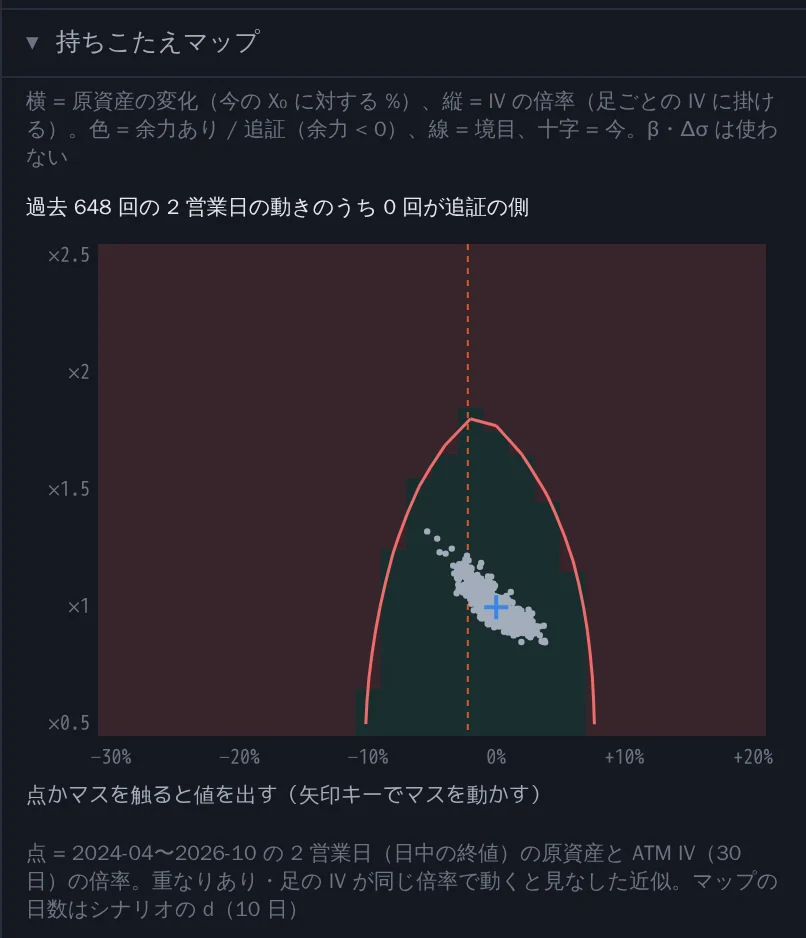
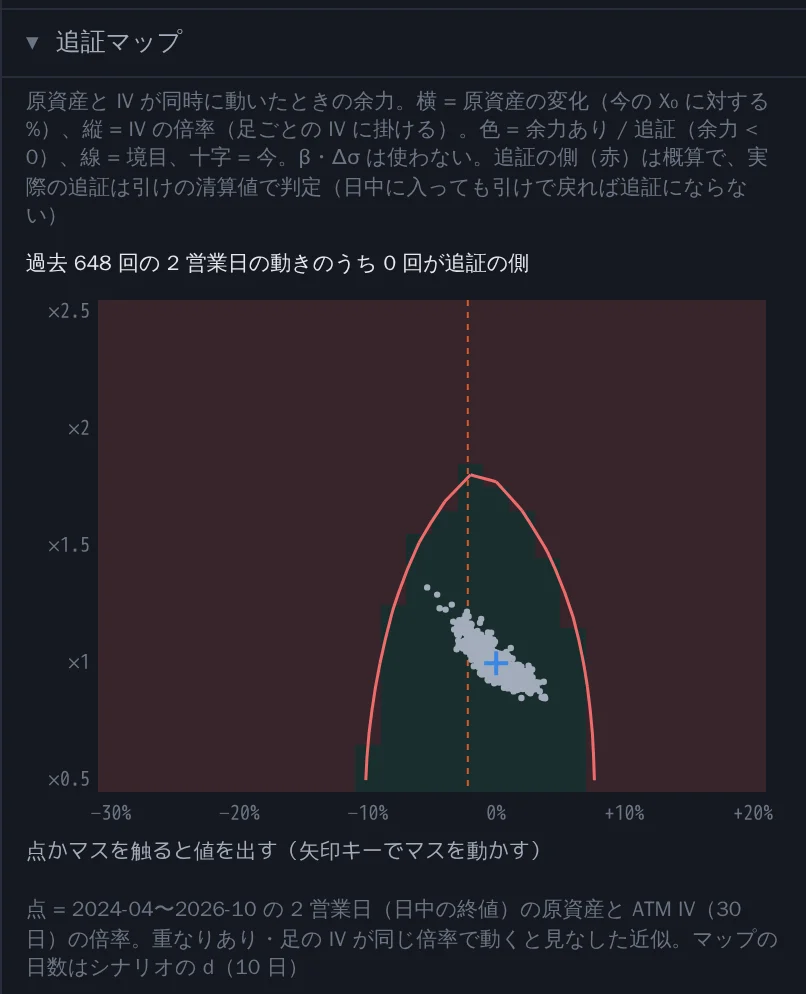
feat: 「持ちこたえマップ」を「追証マップ」に改名し、赤は概算・判定は引けの清算値と添える (#179)

diff --git a/ui/view/glossary.ts b/ui/view/glossary.ts
@@ -66,8 +66,8 @@ const G_LINES = { anchor: '線と印', title: '4 章 舞台（損益グラフ）
 const G_BREAKDOWN = { anchor: '内訳', title: '8 章 作業台: 指標 · テール > 内訳' };
 const G_MARGIN = { anchor: '証拠金概算', title: '8 章 作業台: 指標 · テール > 証拠金（概算）' };
 const G_HOLD = {
-  anchor: '持ちこたえマップ',
-  title: '8 章 作業台: 指標 · テール > 持ちこたえマップ',
+  anchor: '追証マップ',
+  title: '8 章 作業台: 指標 · テール > 追証マップ',
 };
 const G_IV_HISTORY = {
   anchor: 'iv-推移atm-iv-の-30-日固定',
@@ -166,7 +166,7 @@ export const GLOSSARY: readonly GlossaryTerm[] = [
       'シナリオのステッパー「原資産 ΔX」',
       '舞台のハンドル（シナリオ点）と X₀ の縦線',
       '読み取り・指標の X',
-      '持ちこたえマップの横軸',
+      '追証マップの横軸',
     ],
     guide: G_AXIS,
     related: ['forward', 'basis', 'beta'],
@@ -199,12 +199,12 @@ export const GLOSSARY: readonly GlossaryTerm[] = [
     body: [
       'optionchan が板から 1 回ごとに計算して保存している、残存 30 日にそろえた ATM の IV。期近・次限月の ATM の IV を総分散で 30 日に補間する（SQ の前 3 日は次限月を使う）。限月の乗り換え・ATM の移動による段差が無い。',
       'スマイルの ATM IV・足のアンカー IV（simulator のモデルの IV）とは計算の仕方が別で、近いことが多いが一致しない。',
-      '今の IV が過去に比べて高いか低いかを見るのに使う。持ちこたえマップの過去の点（2 営業日の IV の倍率）もこの値から作る。',
+      '今の IV が過去に比べて高いか低いかを見るのに使う。追証マップの過去の点（2 営業日の IV の倍率）もこの値から作る。',
     ],
     formula: '総分散 w = σ² × T を期近・次限月の間で T = 30 日に線形補間し、iv30 = √(w / T)',
     example:
       '例（架空の値）: 期近（残り 20 日）の ATM IV 22%・次限月（残り 48 日）の 20% なら iv30 は約 20.9%',
-    where: ['IV 推移のチャート（「今」の点・シナリオの水準）', '持ちこたえマップの過去の点'],
+    where: ['IV 推移のチャート（「今」の点・シナリオの水準）', '追証マップの過去の点'],
     guide: G_IV_HISTORY,
     related: ['iv', 'hv', 'hold-map'],
   },
@@ -494,7 +494,7 @@ export const GLOSSARY: readonly GlossaryTerm[] = [
     body: [
       '損益グラフの赤の破線と札「追証」。指定日 + シナリオで原資産だけを動かしたとき、余力（概算）が 0 になる原資産の水準。',
       '資金を設定したときだけ出る。余力がどこでも正なら出ない。ΔX・パン・拡大では動かず、d・Δσ・Δs・β などを動かしている間は消え、止まると出る。',
-      '原資産だけを動かす線なので、急落と IV の急騰が同時に来る場面は持ちこたえマップで見る。',
+      '原資産だけを動かす線なので、急落と IV の急騰が同時に来る場面は追証マップで見る。',
     ],
     formula: '余力(X) = 0 となる X',
     example:
@@ -505,19 +505,21 @@ export const GLOSSARY: readonly GlossaryTerm[] = [
   },
   {
     id: 'hold-map',
-    title: '持ちこたえマップ',
-    short: '持ちこたえ',
-    reading: 'もちこたえまっぷ',
-    aliases: ['ホールドマップ', 'hold map'],
-    summary: '原資産の変化 × IV の倍率で、余力が残るか追証かを塗り分けた図',
+    title: '追証マップ',
+    short: '追証マップ',
+    reading: 'おいしょうまっぷ',
+    // 旧名（#179 で改名）も検索で引けるよう別名に残す
+    aliases: ['持ちこたえマップ', 'ホールドマップ', 'hold map'],
+    summary: '原資産と IV が同時に動いたときの余力を、余力あり / 追証の 2 色で塗り分けた図',
     body: [
       '指標 · テールの末尾の折りたたみ。横 = 原資産の変化（−30%〜+20%）、縦 = IV の倍率（×0.5〜×2.5）で、各マスの余力が正か負（追証）かを 2 色で塗る。',
       '過去の点は、取り込まれた全期間の 2 営業日の動き（原資産の変化と iv30 の倍率）。追証の側に入った回数が上に出る。',
       '日数・スキュー・IV の動き方はシナリオのまま。ΔX・Δσ・β は効かない（縦軸が IV の変化そのもの）。',
+      '追証の側（赤）は simulator の証拠金の概算で余力が負になるところ。実際の追証の判定は引けの清算値で行われるので、日中に追証の側へ入っても引けで戻れば追証にならない。',
     ],
     example:
       '例（架空の値）: 原資産 −6%・IV ×1.6 のマスが追証の色なら、2 日でそれだけ動くと余力が負になる',
-    where: ['指標 · テールの「持ちこたえマップ」'],
+    where: ['指標 · テールの「追証マップ」'],
     guide: G_HOLD,
     related: ['margin-line', 'room', 'iv30'],
   },

diff --git a/ui/view/holdMap.ts b/ui/view/holdMap.ts
@@ -1,5 +1,5 @@
 /**
- * 持ちこたえマップ（#152。設計 docs/design.md 5.11）の画面側の計算の単位と表示モデル（純関数。Preact・DOM に依存しない）。
+ * 追証マップ（#152。設計 docs/design.md 5.11）の画面側の計算の単位と表示モデル（純関数。Preact・DOM に依存しない）。
  *
  * - 入力（holdMapInput）は 板の基礎（pnlBoard）・今のシナリオの d・Δs・IV の動き方・パラメータ・資金・休業日だけ
  *   （ΔX・Δσ・β・ivShift・パン・拡大では変わらない = 作り直さない。B7）
@@ -33,7 +33,7 @@ import { MARGIN_LINE_SETTLE_MS } from './margin';
 import { AMOUNT_UNIT_LABEL, type AmountUnit, fmtAmount } from './metrics';
 import { clampDays, type PnlBase } from './pnlChart';
 
-export const HOLD_MAP_TITLE = '持ちこたえマップ';
+export const HOLD_MAP_TITLE = '追証マップ';
 export const HOLD_MAP_NO_CAPITAL = '設定で資金を入れてください（⋯ > 設定…）';
 export const HOLD_MAP_NO_LEGS = '足を入れるとマップを作る';
 export const HOLD_MAP_COMPUTING = '計算中…';
@@ -42,9 +42,10 @@ export const HOLD_MAP_FAILED = '過去の値動きを読めない';
 export const HOLD_MAP_EMPTY = '過去の値動きが無い';
 export const HOLD_MAP_RETRY = '再試行';
 export const HOLD_MAP_IDLE_READOUT = '点かマスを触ると値を出す（矢印キーでマスを動かす）';
+/** 見出しの下の説明（#179: 何の図か・追証の側は概算で実際の判定は引けの清算値。過去の点の近似は holdMapNote） */
 export const HOLD_MAP_CAPTION =
-  '横 = 原資産の変化（今の X₀ に対する %）、縦 = IV の倍率（足ごとの IV に掛ける）。色 = 余力あり / 追証（余力 < 0）、線 = 境目、十字 = 今。β・Δσ は使わない';
-export const HOLD_MAP_PLOT_LABEL = '持ちこたえマップ（原資産の変化 × IV の倍率の余力）';
+  '原資産と IV が同時に動いたときの余力。横 = 原資産の変化（今の X₀ に対する %）、縦 = IV の倍率（足ごとの IV に掛ける）。色 = 余力あり / 追証（余力 < 0）、線 = 境目、十字 = 今。β・Δσ は使わない。追証の側（赤）は概算で、実際の追証は引けの清算値で判定（日中に入っても引けで戻れば追証にならない）';
+export const HOLD_MAP_PLOT_LABEL = '追証マップ（原資産と IV が同時に動いたときの余力）';
 
 /** 止まってから作るまでの時間（ms。追証の線の MARGIN_LINE_SETTLE_MS と同じ） */
 export const HOLD_MAP_SETTLE_MS = MARGIN_LINE_SETTLE_MS;

diff --git a/tests/ui/perf.test.ts b/tests/ui/perf.test.ts
@@ -1602,10 +1602,10 @@ describe('性能（#131 AC17: 証拠金と追証の線）', () => {
 });
 
 /**
- * #152 B8: 持ちこたえマップの 1 列（足 10 本・全足を評価する側・21 マス）。画面は列ごとに setTimeout(0) で回すので、
+ * #152 B8: 追証マップの 1 列（足 10 本・全足を評価する側・21 マス）。画面は列ごとに setTimeout(0) で回すので、
  * 1 列が 1 フレーム（16 ms）に収まること。マップ全体（26 列）は記録だけ。
  */
-describe('性能（#152 持ちこたえマップ）', () => {
+describe('性能（#152 追証マップ）', () => {
   const { ctx, rows } = makeMarket();
   const legs = preparePosition(PERF_LEGS, ctx);
   const board = {
@@ -1630,18 +1630,18 @@ describe('性能（#152 持ちこたえマップ）', () => {
   const axes = holdMapAxes([]);
   let col = 0;
 
-  it(`#152 持ちこたえマップの 1 列（21 マス）が ${BUDGET_MS} ms 以内（30 回の最小値）`, () => {
+  it(`#152 追証マップの 1 列（21 マス）が ${BUDGET_MS} ms 以内（30 回の最小値）`, () => {
     expect(axes.cs).toHaveLength(21);
     const one = () => {
       col = (col + 1) % axes.us.length;
       return holdMapColumn(calc, axes, col).length;
     };
     expect(one()).toBe(21);
-    expectWithinBudget('#152 持ちこたえマップの 1 列', one, { warmup: 10, runs: 30 });
+    expectWithinBudget('#152 追証マップの 1 列', one, { warmup: 10, runs: 30 });
   });
 
   it('マップ全体（26 列 × 21 行）と描画の表示モデル（記録のみ）', () => {
-    record('#152 持ちこたえマップ全体', () => holdMapRooms(input, axes).length, {
+    record('#152 追証マップ全体', () => holdMapRooms(input, axes).length, {
       warmup: 1,
       runs: RECORD_RUNS,
     });
@@ -1656,7 +1656,7 @@ describe('性能（#152 持ちこたえマップ）', () => {
       ivPt: 4 * Math.cos(k),
     }));
     record(
-      '#152 持ちこたえマップの描画（点 1,800）',
+      '#152 追証マップの描画（点 1,800）',
       () => holdMapPlot(result, moves, 400).cells.length,
       {
         warmup: 2,

diff --git a/tests/ui/holdMap.test.ts b/tests/ui/holdMap.test.ts
@@ -1,5 +1,5 @@
 /**
- * 持ちこたえマップの表示モデル（#152 段 B の B6・B7。ui/view/holdMap.ts）。板・過去の点は合成（架空の値）。
+ * 追証マップの表示モデル（#152 段 B の B6・B7。ui/view/holdMap.ts）。板・過去の点は合成（架空の値）。
  */
 
 import { describe, expect, it } from 'vitest';
@@ -15,6 +15,7 @@ import {
   ZERO_SCENARIO,
 } from '../../model';
 import {
+  HOLD_MAP_CAPTION,
   HOLD_MAP_COMPUTING,
   HOLD_MAP_EMPTY,
   HOLD_MAP_FAILED,
@@ -24,6 +25,8 @@ import {
   HOLD_MAP_MAX_Y_TICKS,
   HOLD_MAP_NO_CAPITAL,
   HOLD_MAP_NO_LEGS,
+  HOLD_MAP_PLOT_LABEL,
+  HOLD_MAP_TITLE,
   type HoldMapResult,
   holdMapBaseScenario,
   holdMapDxX,
@@ -345,5 +348,21 @@ describe('#174 待ちの表示・開いたときのスクロール', () => {
     expect(holdMapReveal(520, 760, 100, 500, true)).toEqual({ delta: 260, behavior: 'auto' });
     // 有限でない値は動かさない
     expect(holdMapReveal(Number.NaN, 800, 100, 500, false).delta).toBe(0);
+  });
+});
+
+describe('#179 名前と見出しの下の説明', () => {
+  it('見出しは「追証マップ」、描画域の名前も同じ名前で始まる', () => {
+    expect(HOLD_MAP_TITLE).toBe('追証マップ');
+    expect(HOLD_MAP_PLOT_LABEL.startsWith('追証マップ')).toBe(true);
+  });
+
+  it('説明は「原資産と IV が同時に動いたときの余力」で始まり、追証の側は概算・実際の判定は引けの清算値と書く', () => {
+    expect(HOLD_MAP_CAPTION.startsWith('原資産と IV が同時に動いたときの余力')).toBe(true);
+    expect(HOLD_MAP_CAPTION).toContain('概算');
+    expect(HOLD_MAP_CAPTION).toContain('引けの清算値');
+    expect(HOLD_MAP_CAPTION).toContain('引けで戻れば追証にならない');
+    // 過去の点の近似は点の注記（holdMapNote）だけに書く（説明に重ねない）
+    expect(HOLD_MAP_CAPTION).not.toContain('近似');
   });
 });

diff --git a/ui/next/NextApp.tsx b/ui/next/NextApp.tsx
@@ -96,7 +96,7 @@ import { useTheme } from './useTheme';
  * 保存しない）。見えたら（ivVisible）初めての 1 回だけ右端を読む。データ元が API のときは /api/atm_iv、dev の合成の板・
  * ファイルのときは dev だけ /fixtures/atm_iv（本番のビルドは常に /api/atm_iv）。トップバーの [最新] では読み直さない。
  * 段 C で左右の追加読み込み（useIvHistory）・「今」の 1 点（ivNowValue）・シナリオの水準（state.scenario と舞台の X₀）を足した。
- * #152 で指標 · テールに持ちこたえマップ（regions/HoldMap.tsx）を入れた。開閉は ShellState.holdMap（保存しない）、過去の点は
+ * #152 で指標 · テールに追証マップ（regions/HoldMap.tsx）を入れた。開閉は ShellState.holdMap（保存しない）、過去の点は
  * 常駐の useAtmMoves（見えたら 1 回だけ /api/atm_daily を読む）、マスの計算は useHoldMap（止まってから列ごと）。
  */
 export function NextApp({ boot, prefs }: { boot: Boot; prefs: PrefsRead }) {
@@ -117,7 +117,7 @@ export function NextApp({ boot, prefs }: { boot: Boot; prefs: PrefsRead }) {
     () => (boardJson ? ivNowValue(boardJson, nonTradingDays) : null),
     [boardJson, nonTradingDays],
   );
-  // 持ちこたえマップ（#152）: 見えている間だけ計算し、初めて見えたときに過去の値（/api/atm_daily）を 1 回読む。
+  // 追証マップ（#152）: 見えている間だけ計算し、初めて見えたときに過去の値（/api/atm_daily）を 1 回読む。
   // dev の合成の板・ファイルでは dev だけ /fixtures/atm_daily（本番のビルドは常に /api/atm_daily）
   const holdOpen = shell.holdMap ?? false;
   const holdShown = holdMapVisible(shell, tier);

diff --git a/ui/view/shell.ts b/ui/view/shell.ts
@@ -41,7 +41,7 @@ export interface ShellState {
   market: MarketView;
   /** 舞台のグラフの表示（#88。無い = line。読むのは chartMode） */
   chart?: ChartMode;
-  /** 指標 · テールの「持ちこたえマップ」の折りたたみが開いている（#152。無い = 閉。保存しない） */
+  /** 指標 · テールの「追証マップ」の折りたたみが開いている（#152。無い = 閉。保存しない） */
   holdMap?: boolean;
 }
 
@@ -60,7 +60,7 @@ export type ShellAction =
   | { type: 'grab'; dy: number }
   | { type: 'market'; market: MarketView }
   | { type: 'chart'; chart: ChartMode }
-  /** 持ちこたえマップの開閉（#152） */
+  /** 追証マップの開閉（#152） */
   | { type: 'holdMap'; open: boolean };
 
 /**
@@ -99,7 +99,7 @@ export function ivVisible(s: ShellState, tier: Tier): boolean {
 }
 
 /**
- * 持ちこたえマップが見えているか（#152。見えている間だけ計算し、初めて見えたときに過去の値を読む）: 開いていて、
+ * 追証マップが見えているか（#152。見えている間だけ計算し、初めて見えたときに過去の値を読む）: 開いていて、
  * 指標のパネルが見えている（PC は常に、タブレットはパネルが metrics、スマホはそれに加えてシートが hidden でない）
  */
 export function holdMapVisible(s: ShellState, tier: Tier): boolean {

diff --git a/tests/ui/glossary.test.ts b/tests/ui/glossary.test.ts
@@ -219,6 +219,27 @@ describe('説明の語（#167 AC-4）', () => {
       ...(t?.aliases ?? []),
     ]);
   });
+
+  it('#179 追証マップ: 見出し・短い形は新しい名前、旧名「持ちこたえマップ」は別名で引ける、追証の側は概算・引けの清算値', () => {
+    const t = termById('hold-map');
+    expect(t?.title).toBe('追証マップ');
+    expect(t?.short).toBe('追証マップ');
+    expect(t?.reading).toBe('おいしょうまっぷ');
+    expect(t?.aliases).toContain('持ちこたえマップ');
+    expect(t && termSearchText(t)).toContain('持ちこたえ');
+    expect(t?.guide).toEqual({
+      anchor: '追証マップ',
+      title: '8 章 作業台: 指標 · テール > 追証マップ',
+    });
+    expect(text('hold-map')).toContain('原資産と IV が同時に動いたときの余力');
+    expect(text('hold-map')).toContain('概算');
+    expect(text('hold-map')).toContain('引けの清算値');
+    // 旧名は別名の 1 か所だけ（見出し・説明・出る場所・関連する用語の文に残さない）
+    for (const u of GLOSSARY) {
+      const strs = [u.title, u.short, u.reading, u.summary, ...u.body, ...u.where, u.guide.title];
+      for (const x of strs) expect(x, u.id).not.toContain('持ちこたえ');
+    }
+  });
 });
 
 describe('説明カードの表示モデル（#167 AC-7）', () => {

diff --git a/data/adapter.ts b/data/adapter.ts
@@ -10,7 +10,7 @@
  *
  * 取引カレンダーは板と別に同一オリジンの `/api/calendar` を読む（loadCalendarJson。7.5）。
  * IV 推移は IV 推移を開いたときだけ同一オリジンの `/api/atm_iv` を読む（loadAtmIv。7.1。#79）。
- * 日次の値は持ちこたえマップを開いたときだけ同一オリジンの `/api/atm_daily` を読む（loadAtmDaily。7.1。#152）。
+ * 日次の値は追証マップを開いたときだけ同一オリジンの `/api/atm_daily` を読む（loadAtmDaily。7.1。#152）。
  */
 
 import { type AtmDailyData, validateAtmDailyJson } from './atmDaily';
@@ -243,7 +243,7 @@ export interface AtmDailyLoadOptions {
 }
 
 /**
- * 日次の値（`/api/atm_daily`。#152。持ちこたえマップの過去の点）を読んで検証する。パラメータなし。fetch の作法は
+ * 日次の値（`/api/atm_daily`。#152。追証マップの過去の点）を読んで検証する。パラメータなし。fetch の作法は
  * `/api/calendar` と同じ（`cache: 'no-cache'`・`redirect: 'manual'` でログイン切れを検出）。失敗は ChainLoadError
  * （応答の本文は入れない）。AbortError はそのまま投げる。
  */

diff --git a/ui/next/regions/Metrics.tsx b/ui/next/regions/Metrics.tsx
@@ -30,7 +30,7 @@ interface Props {
   feePerLot: number;
   /** 証拠金の概算（useAppController の useMemo。#131。板が無ければ null） */
   margin: MarginView | null;
-  /** 持ちこたえマップ（#152。NextApp の useMemo） */
+  /** 追証マップ（#152。NextApp の useMemo） */
   hold: HoldBundle;
 }
 
@@ -107,7 +107,7 @@ function TailCell({ c }: { c: TailCellView }) {
 /**
  * 指標 · テール（docs/ui-redesign.md §2・§3・§5・§5.2・§9。#86）: 見出し行（単位の副題・ⓘ）→ タイル 6 枚 →
  * 「内訳」の折りたたみ（旧画面の指標の全項目。既定は閉・保存しない）→ テール表（損益のバー付き）→ テールの証拠金の表 →
- * 「持ちこたえマップ」の折りたたみ（#152。regions/HoldMap.tsx。既定は閉・開閉は ShellState）。
+ * 「追証マップ」の折りたたみ（#152。regions/HoldMap.tsx。既定は閉・開閉は ShellState）。
  * 表示モデルは ui/view/metricsPanel.ts。action は dispatch しない（単位・手数料の入力は #87 の設定）。
  */
 function MetricsView({ model, feePerLot, margin, hold }: Props) {

diff --git a/ui/next/regions/HoldMap.tsx b/ui/next/regions/HoldMap.tsx
@@ -24,7 +24,7 @@ import {
 import type { AmountUnit } from '../../view/metrics';
 import { useSize } from '../useSize';
 
-/** 指標パネルに渡す持ちこたえマップの束（NextApp の useMemo。参照が同じなら描き直さない） */
+/** 指標パネルに渡す追証マップの束（NextApp の useMemo。参照が同じなら描き直さない） */
 export interface HoldBundle {
   open: boolean;
   onToggle: () => void;
@@ -192,7 +192,7 @@ function HoldMapPlotView({
 }
 
 /**
- * 持ちこたえマップ（#152。docs/ui-redesign.md §3・docs/design.md 5.11）: 指標 · テールの末尾の折りたたみ（既定は閉・
+ * 追証マップ（#152。docs/ui-redesign.md §3・docs/design.md 5.11）: 指標 · テールの末尾の折りたたみ（既定は閉・
  * 開閉は ShellState.holdMap = セッション中だけ）。表示モデルは ui/view/holdMap.ts、計算の時機は useHoldMap、
  * 過去の点の読み込みは useAtmMoves（どちらも NextApp が持つ）。値は JSX のテキストと SVG の数値の属性だけ。
  */

diff --git a/ui/components/useAppController.ts b/ui/components/useAppController.ts
@@ -608,7 +608,7 @@ export function useAppController(boot: Boot = NO_BOOT, margin: MarginPrefs = DEF
         : null,
     [pnlBoard, lineScenario, marginParams, capital, holidays],
   );
-  // 持ちこたえマップの入力（#152）: 板の基礎・d・Δs・動き方・パラメータ・資金・休業日だけ（ΔX・Δσ・β・ivShift・パン・拡大で
+  // 追証マップの入力（#152）: 板の基礎・d・Δs・動き方・パラメータ・資金・休業日だけ（ΔX・Δσ・β・ivShift・パン・拡大で
   // 参照が変わらない）。マップは useHoldMap が止まってから列ごとに作る。資金が未設定・足なしなら null
   const holdScenario = useMemo(
     () => holdMapBaseScenario({ ...ZERO_SCENARIO, days, skew, ivDynamics }),

diff --git a/tests/ui/palette.test.ts b/tests/ui/palette.test.ts
@@ -476,6 +476,11 @@ describe('用語の行（#167 AC-5）', () => {
     expect(hit[0]?.id).toBe('term:iv');
     // 用語に当たらない語は 0 件（コマンドは出さない）
     expect(paletteFilter(items, '?急落')).toEqual([]);
+    // #179: 旧名でも追証マップに当たる。`?追証` の先頭（Enter で開く行）は今までどおり追証の線で、追証マップも並ぶ
+    expect(paletteFilter(items, '?持ちこたえ').map((r) => r.id)).toEqual(['term:hold-map']);
+    const call = paletteFilter(items, '?追証').map((r) => r.id);
+    expect(call[0]).toBe('term:margin-line');
+    expect(call).toContain('term:hold-map');
     expect(paletteFilter(items, '？ テーマ')).toEqual([]);
   });
 
